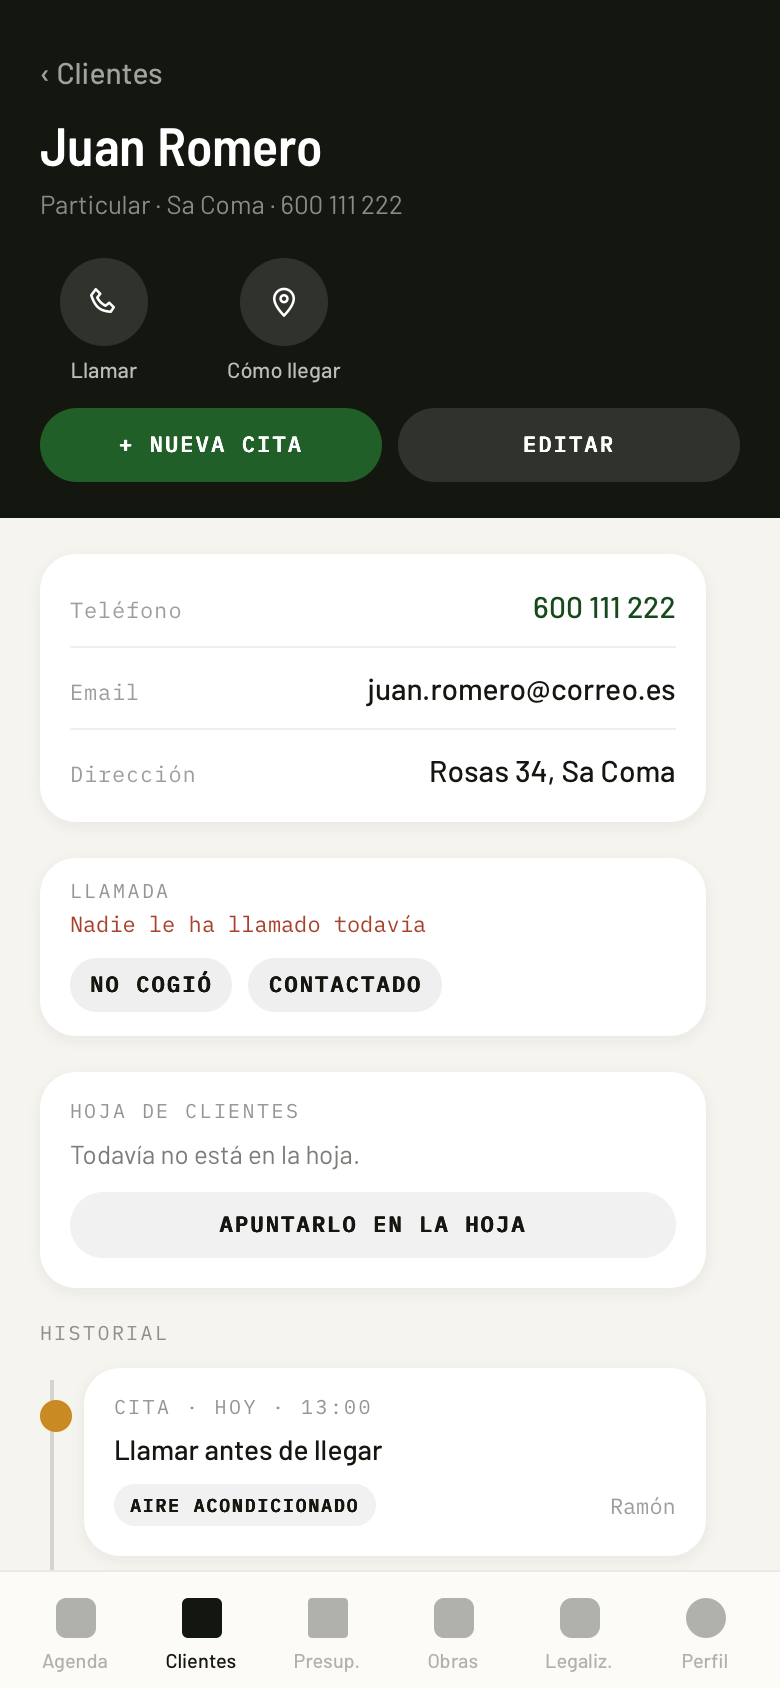
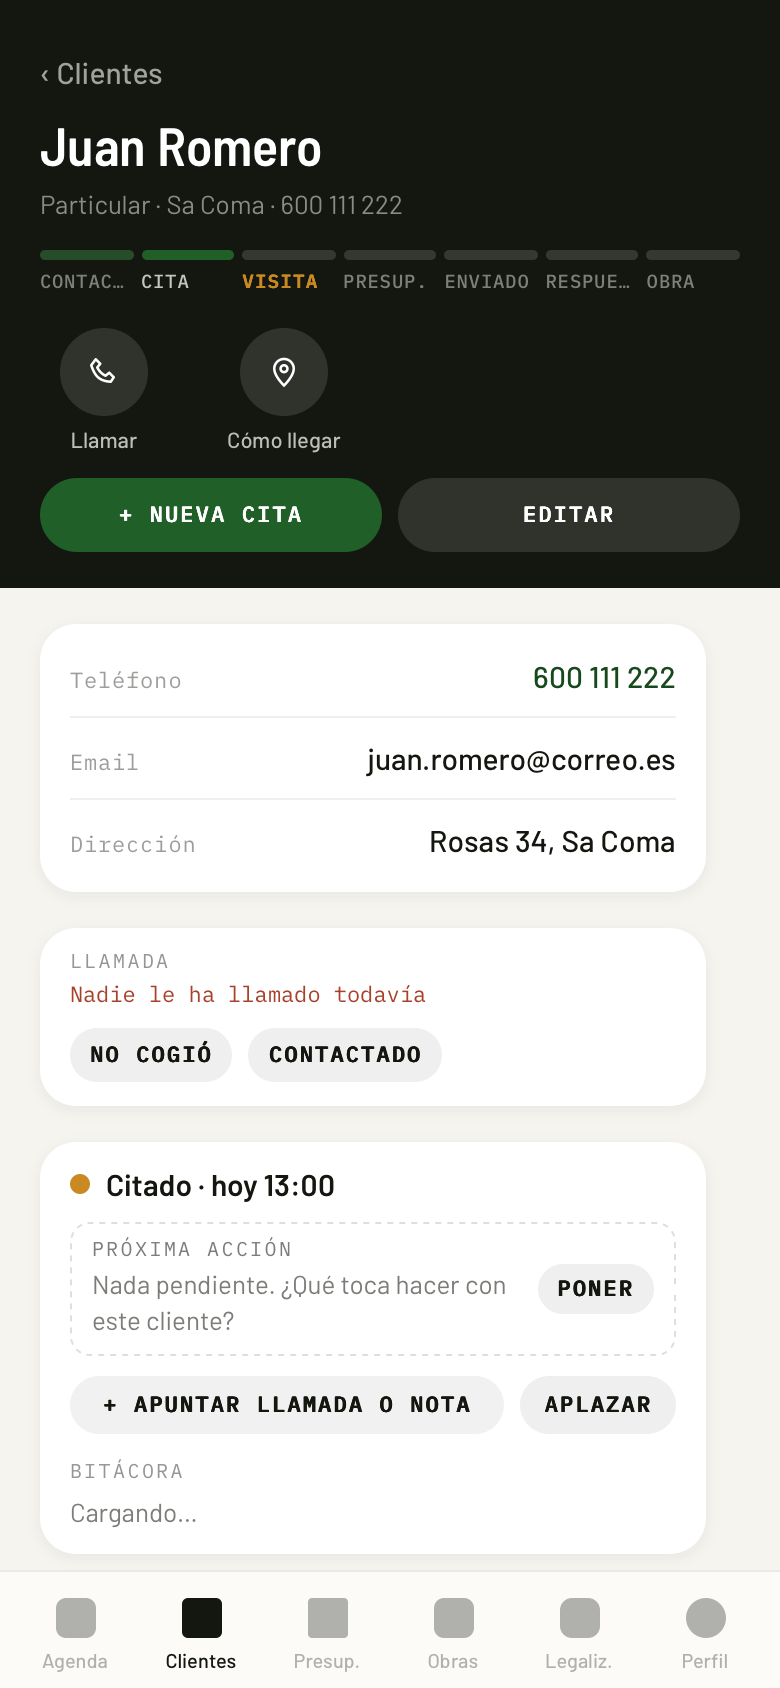
V20.9: el camino del cliente (contacto → cita → visita → presupuesto → enviado → respuesta → obra) en la lista, el tablero y la ficha; próxima acción y última llamada a la vista

diff --git a/index.html b/index.html
@@ -84,6 +84,23 @@ a:hover{color:var(--tinta)}
 .chip{font:500 13px/1 var(--sans);padding:10px 13px;border-radius:99px;cursor:pointer;background:#fff;color:var(--t2);border:1px solid var(--l2)}
 .chip.on{background:var(--tinta);color:#fff;border-color:var(--tinta)}
 .chip.sel{background:var(--tinta);color:#fff;border-color:var(--tinta)} /* el elegido en el presupuesto suelto */
+/* El camino del cliente: contacto → cita → visita → presupuesto → enviado → respuesta → obra */
+.camino{display:flex;gap:4px;align-items:flex-start}
+.camino .p{flex:1;min-width:0}
+.camino .p i{display:block;height:5px;border-radius:99px;background:rgba(20,23,15,.1)}
+.camino .p.hecho i{background:var(--verde)}
+.camino .p.ahora i{background:var(--ambar)}
+.camino .p.saltado i{background:rgba(61,143,74,.35)}
+.camino .p.parado i{background:var(--rojo)}
+.camino .p b{display:block;font:500 9.5px/1.2 var(--mono);letter-spacing:.04em;text-transform:uppercase;color:var(--t3);margin-top:5px;white-space:nowrap;overflow:hidden;text-overflow:ellipsis}
+.camino .p.ahora b{color:var(--ambar-o);font-weight:600}
+.camino .p.hecho b{color:var(--t2)}
+.camino.oscuro .p i{background:rgba(255,255,255,.14)}
+.camino.oscuro .p.hecho i{background:var(--verde)}
+.camino.oscuro .p.saltado i{background:rgba(61,143,74,.45)}
+.camino.oscuro .p b{color:rgba(255,255,255,.45)}
+.camino.oscuro .p.hecho b{color:rgba(255,255,255,.75)}
+.camino.oscuro .p.ahora b{color:var(--ambar)}
 .chip.alerta{background:var(--rojo);color:#fff;border-color:var(--rojo)}
 .chip.ok{background:var(--verde);color:#fff;border-color:var(--verde)}
 .wrap{display:flex;flex-wrap:wrap;gap:7px}
@@ -390,7 +407,7 @@ import * as visitasDB from './visitas-db.js';
 window.Sysefen = { supabase, auth: sysAuth, db: sysDB };
 
 const KEY = 'ch_v1';
-const APP_VERSION = '20.8'; // versión visible de la app (única fuente)
+const APP_VERSION = '20.9'; // versión visible de la app (única fuente)
 const $ = (s) => document.querySelector(s);
 const esc = (v) => String(v == null ? '' : v).replace(/[&<>"']/g, (c) => ({ '&': '&amp;', '<': '&lt;', '>': '&gt;', '"': '&quot;', "'": '&#39;' }[c]));
 const uid = () => Date.now().toString(36) + Math.random().toString(36).slice(2, 7);
@@ -8944,6 +8961,7 @@ function tableroHTML() {
     ${col.clientes.map(({ c, e }) => { const un = ultimaNota(c); const vencida = c.proxima_accion_at && c.proxima_accion_at < hoy; return `<div class="tb-card" data-a="ag_abrirCliente" data-id="${c.id}" style="border-left-color:${e.color}">
       <div class="row" style="justify-content:space-between;align-items:baseline;gap:8px"><div class="n">${esc(c.nombre)}</div>${importe(c) ? `<span class="num" style="font-size:13px;white-space:nowrap">${importe(c)}</span>` : ''}</div>
       <div class="s">${esc([agTipoNombre(c), c.poblacion].filter(Boolean).join(' · '))}${c.contacto_estado ? ' · ' + esc(agContactadoTxt(c)) : ''}</div>
+      <div style="margin-top:7px">${caminoHTML(c)}</div>
       ${c.proxima_accion ? `<div class="a ${vencida ? 'vence' : ''}">${esc(c.proxima_accion)}${c.proxima_accion_at ? ' · ' + esc(fechaCorta(c.proxima_accion_at + 'T12:00')) : ''}${c.proxima_accion_por ? ' · ' + esc(agNombreEmp(c.proxima_accion_por)) : ''}</div>` : ''}
       ${un ? `<div class="s" style="margin-top:5px;display:-webkit-box;-webkit-line-clamp:2;-webkit-box-orient:vertical;overflow:hidden">${esc(BIT_TIPOS[un.tipo] || '')}: ${esc(un.texto)}</div>` : ''}
     </div>`; }).join('') || '<div class="tiny" style="padding:6px 2px">Nadie</div>'}
@@ -8977,6 +8995,57 @@ function presuQueManda(c) {
   const vivos = ps.filter((p) => !['rechazado', 'caducado'].includes(p.respuesta_cliente));
   const lista = vivos.length ? vivos : ps;
   return lista.slice().sort((a, b) => seguimientoPresu(b).paso - seguimientoPresu(a).paso || String(b.created_at).localeCompare(String(a.created_at)))[0];
+}
+/* ---------- el camino del cliente ----------
+ * Siete pasos, siempre los mismos: contacto, cita, visita, presupuesto,
+ * enviado, respuesta, obra. Un paso cuenta como hecho si pasó, o si pasó uno
+ * posterior (un cliente con presupuesto no tiene «la visita pendiente»: se da
+ * por cubierta, en claro). El primero sin hacer es «ahora». Si está aplazado o
+ * rechazado, el camino se para ahí. Así, en la lista, de un vistazo se ve en
+ * qué punto está cada uno sin entrar en la ficha.
+ * ------------------------------------------- */
+const CAMINO_PASOS = [['contacto', 'Contacto'], ['cita', 'Cita'], ['visita', 'Visita'], ['presupuesto', 'Presup.'], ['enviado', 'Enviado'], ['respuesta', 'Respuesta'], ['obra', 'Obra']];
+function caminoCliente(c) {
+  const pm = presuQueManda(c);
+  const sg = pm ? seguimientoPresu(pm) : null;
+  const hechos = {
+    contacto: c.contacto_estado === 'contactado',
+    cita: (c.citas || []).length > 0 || !!c.sin_cita_motivo,
+    visita: (c.visitas || []).length > 0,
+    presupuesto: !!pm,
+    enviado: !!(pm && (pm.enviado_cliente_at || (pm.respuesta_cliente && pm.respuesta_cliente !== 'pendiente'))),
+    respuesta: !!(sg && ['aceptado', 'rechazado'].includes(sg.k)),
+    obra: !!((pm && pm.obra_id) || (typeof obrasDeCliente === 'function' && obrasDeCliente(c).length)),
+  };
+  const parado = sg && sg.k === 'rechazado' ? 'respuesta' : null;
+  const aplazado = !!(c.aplazado_hasta && c.aplazado_hasta >= hoyISO()) && !(sg && sg.k === 'aceptado');
+  // Lo último que pasó de verdad: todo lo anterior queda cubierto.
+  let ultimo = -1;
+  CAMINO_PASOS.forEach(([k], i) => { if (hechos[k]) ultimo = i; });
+  const pasos = CAMINO_PASOS.map(([k, titulo], i) => {
+    let estado = 'pendiente';
+    if (hechos[k]) estado = 'hecho';
+    else if (i < ultimo) estado = 'saltado';
+    else if (i === ultimo + 1) estado = 'ahora';
+    if (parado === k) estado = 'parado';
+    return { k, titulo, estado };
+  });
+  if (aplazado) { const a = pasos.find((x) => x.estado === 'ahora'); if (a) { a.estado = 'parado'; a.titulo = 'Aplazado'; } }
+  if (parado) pasos.forEach((x) => { if (x.estado === 'ahora') x.estado = 'pendiente'; });
+  return pasos;
+}
+function caminoHTML(c, oscuro) {
+  return `<div class="camino ${oscuro ? 'oscuro' : ''}">${caminoCliente(c).map((x) => `<div class="p ${x.estado}" title="${esc(x.titulo)}"><i></i><b>${esc(x.titulo)}</b></div>`).join('')}</div>`;
+}
+// Lo que hay que saber de un cliente sin entrar: la próxima acción y lo último que se habló.
+function seguimientoResumenHTML(c, oscuro) {
+  const un = ultimaNota(c), hoy = hoyISO();
+  const vencida = c.proxima_accion_at && c.proxima_accion_at < hoy;
+  const colorA = vencida ? 'var(--rojo)' : (oscuro ? 'var(--ambar)' : 'var(--ambar-o)');
+  const colorN = oscuro ? 'rgba(255,255,255,.7)' : 'var(--t2)';
+  if (!c.proxima_accion && !un) return '';
+  return `${c.proxima_accion ? `<div style="font:500 13px/1.35 var(--sans);color:${colorA};margin-top:8px">→ ${esc(c.proxima_accion)}${c.proxima_accion_at ? ' · ' + esc(fechaCorta(c.proxima_accion_at + 'T12:00')) : ''}${c.proxima_accion_por ? ' · ' + esc(agNombreEmp(c.proxima_accion_por)) : ''}${vencida ? ' · vencida' : ''}</div>` : ''}
+    ${un ? `<div style="font:400 13px/1.35 var(--sans);color:${colorN};margin-top:${c.proxima_accion ? 4 : 8}px;display:-webkit-box;-webkit-line-clamp:2;-webkit-box-orient:vertical;overflow:hidden">${esc(BIT_TIPOS[un.tipo] || '')} · ${esc(fechaCorta(un.at))}${un.por ? ' · ' + esc(agNombreEmp(un.por)) : ''}: ${esc(un.texto)}</div>` : ''}`;
 }
 function agEstadoCliente(c) {
   const vis = c.visitas || [];
@@ -9022,6 +9091,8 @@ A.cargarAgenda = async () => {
     ag.citas = citas; ag.clientes = clientes; ag.error = null;
   } catch (e) { ag.error = msgError(e); }
   finally { ag.cargando = false; ag.cargado = true; if (AG_VISTAS.includes(V.view)) render(); }
+  // La última llamada y la próxima acción se ven en la lista sin entrar.
+  if (puedeCitar()) cargarBitacoraTodos();
   clientesPendientesAHoja();
 };
 
@@ -9764,6 +9835,8 @@ function clientesListaHTML() {
     <div class="row g8"><span class="dot" style="width:8px;height:8px;background:${e.color}"></span><span class="lbl"${e.k === 'sin_cita' ? ' style="color:var(--rojo)"' : ''}>${esc(e.txt)}</span></div>
     <div class="h2" style="font-size:17px;margin-top:8px">${esc(c.nombre)}</div>
     <div class="sub" style="margin-top:3px">${esc([agTipoNombre(c), c.poblacion, c.telefono].filter(Boolean).join(' · '))}</div>
+    <div style="margin-top:11px">${caminoHTML(c)}</div>
+    ${seguimientoResumenHTML(c)}
     ${e.k === 'sin_cita' && puedeCitar() ? `<div style="margin-top:12px;padding-top:11px;border-top:1px solid var(--l1)">
       <div class="tiny" style="color:${c.contacto_estado === 'contactado' ? 'var(--ambar-o)' : c.contacto_estado ? 'var(--rojo)' : 'inherit'}">${esc(agContactadoTxt(c) || c.nota || 'Nadie le ha llamado todavía')}</div>
       <div class="row g8" style="margin-top:9px;flex-wrap:wrap">${agContactoBotones(c)}
@@ -9829,6 +9902,8 @@ function webListaHTML() {
       <span class="tiny">Llegó ${cuando(c.lead_at)}</span></div>
     <div class="h2" style="margin-top:9px">${esc(c.nombre)}</div>
     <div class="sub" style="margin-top:4px">${esc([agTipoNombre(c), c.telefono, c.poblacion].filter(Boolean).join(' · ') || 'Sin más datos')}</div>
+    <div style="margin-top:11px">${caminoHTML(c)}</div>
+    ${seguimientoResumenHTML(c)}
     ${c.motivo_web ? `<div style="margin-top:8px;padding:8px 10px;border-radius:10px;background:#f8efdc;color:var(--ambar-o);font:500 13px/1.4 var(--sans);display:-webkit-box;-webkit-line-clamp:3;-webkit-box-orient:vertical;overflow:hidden">${esc(c.motivo_web)}</div>` : ''}
     ${agContactadoTxt(c) ? `<div class="tiny" style="margin-top:8px;color:${c.contacto_estado === 'contactado' ? 'var(--ambar-o)' : 'var(--rojo)'}">${esc(agContactadoTxt(c))}</div>` : ''}
     ${puedeCitar() ? `<div class="row g8" style="margin-top:12px;flex-wrap:wrap">${agContactoBotones(c)}
@@ -10151,6 +10226,7 @@ function vClienteVer() {
     <div class="volver" data-a="ag_volver" data-v="clientes">‹ Clientes</div>
     <div style="font:600 27px/1.1 var(--cond)">${esc(c.nombre)}</div>
     <div class="sub" style="color:rgba(255,255,255,.5);margin-top:6px">${esc([agTipoNombre(c), c.poblacion, c.telefono].filter(Boolean).join(' · '))}</div>
+    <div style="margin-top:14px">${caminoHTML(c, true)}</div>
     ${(c.direccion || c.poblacion) || c.telefono ? `<div class="ag-acciones" style="justify-content:flex-start;gap:26px">
       ${accionLlamar(c.telefono)}
       ${accionComoLlegar([c.direccion, c.poblacion].filter(Boolean).join(', '))}

diff --git a/pruebas/seguimiento-cliente.js b/pruebas/seguimiento-cliente.js
@@ -23,4 +23,28 @@ igual('esperando respuesta', por.esperando, 'Dani');
 igual('resueltos sin cita', por.sin_cita_ok, 'Eva');
 igual('diez columnas siempre', cols.length, 10);
 
+titulo('el camino del cliente (V20.9)');
+var camino = function (c) { return caminoCliente(c).map(function (x) { return x.k + ':' + x.estado; }).join(' '); };
+var sinTocar = { id: 'k1', nombre: 'Nuevo', citas: [], visitas: [] };
+igual('recién llegado: toca el contacto', camino(sinTocar), 'contacto:ahora cita:pendiente visita:pendiente presupuesto:pendiente enviado:pendiente respuesta:pendiente obra:pendiente');
+igual('contactado: toca la cita', caminoCliente({ id: 'k2', nombre: 'B', contacto_estado: 'contactado', citas: [], visitas: [] })[1].estado, 'ahora');
+var conPresu = { id: 'k3', nombre: 'C', citas: [], visitas: [], presupuestos: [{ id: 'q', created_at: '2026-10-01', respuesta_cliente: 'pendiente' }] };
+igual('con presupuesto sin visita: contacto, cita y visita quedan cubiertos (saltados), toca enviarlo',
+  camino(conPresu), 'contacto:saltado cita:saltado visita:saltado presupuesto:hecho enviado:ahora respuesta:pendiente obra:pendiente');
+var enviado = { id: 'k4', nombre: 'D', citas: [{ id: 'x' }], visitas: [{ id: 'v' }], presupuestos: [{ id: 'q', created_at: '2026-10-01', enviado_cliente_at: '2026-10-02', respuesta_cliente: 'pendiente' }] };
+comprueba('enviado: espera respuesta', caminoCliente(enviado)[4].estado === 'hecho' && caminoCliente(enviado)[5].estado === 'ahora');
+var aceptado = { id: 'k5', nombre: 'E', citas: [], visitas: [], presupuestos: [{ id: 'q', created_at: '2026-10-01', enviado_cliente_at: '2026-10-02', respuesta_cliente: 'aceptado', obra_id: 'o1' }] };
+comprueba('aceptado con obra: todo hecho', caminoCliente(aceptado).every(function (x) { return x.estado === 'hecho' || x.estado === 'saltado'; }));
+var rechazado = { id: 'k6', nombre: 'F', citas: [], visitas: [], presupuestos: [{ id: 'q', created_at: '2026-10-01', enviado_cliente_at: '2026-10-02', respuesta_cliente: 'rechazado' }] };
+comprueba('rechazado: se para en la respuesta y la obra no queda pendiente', caminoCliente(rechazado)[5].estado === 'parado' && caminoCliente(rechazado)[6].estado === 'pendiente' && !caminoCliente(rechazado).some(function (x) { return x.estado === 'ahora'; }));
+var aplazado = { id: 'k7', nombre: 'G', contacto_estado: 'contactado', aplazado_hasta: '2099-01-15', citas: [], visitas: [] };
+comprueba('aplazado: el paso que tocaba se marca parado y dice Aplazado', caminoCliente(aplazado)[1].estado === 'parado' && caminoCliente(aplazado)[1].titulo === 'Aplazado');
+comprueba('sin cita resuelto cuenta la cita como hecha', caminoCliente({ id: 'k8', nombre: 'H', sin_cita_motivo: 'ya tiene obra', citas: [], visitas: [] })[1].estado === 'hecho');
+var html = caminoHTML(conPresu);
+comprueba('se pinta con los siete pasos', (html.match(/class="p /g) || []).length === 7 && html.indexOf('Presup.') >= 0);
+V.bitacora['k2'] = [{ tipo: 'llamada', texto: 'Pide que le llamemos mañana', at: '2026-10-07T10:00:00Z', por: null }];
+var res = seguimientoResumenHTML({ id: 'k2', nombre: 'B', proxima_accion: 'Llamar', proxima_accion_at: '2026-10-08', citas: [], visitas: [] });
+comprueba('el resumen lleva la próxima acción y lo último que se habló', res.indexOf('→ Llamar') >= 0 && res.indexOf('Pide que le llamemos') >= 0);
+igual('sin nada que contar, nada', seguimientoResumenHTML({ id: 'k9', citas: [], visitas: [] }), '');
+
 resultado();

diff --git a/sw.js b/sw.js
@@ -1,4 +1,4 @@
-const CACHE = 'ch-v20-8';
+const CACHE = 'ch-v20-9';
 const ASSETS = ['./', './index.html', './manifest.webmanifest', './supabase-client.js', './supabase-auth.js', './supabase-db.js', './visitas-schemas.js', './visitas-form.js', './visitas-db.js', './icon-192.png?v=2', './icon-512.png?v=2', './icon-maskable.png?v=2', './logo-trans.png?v=3', './logo-blanco.png?v=3', './logo-s-blanco.png?v=2', './fondo-login.jpg'];
 
 // Al instalarse una versión nueva NO se activa sola: se queda esperando y la
